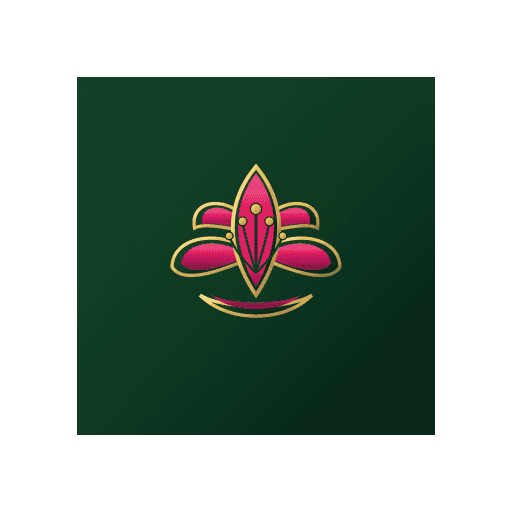
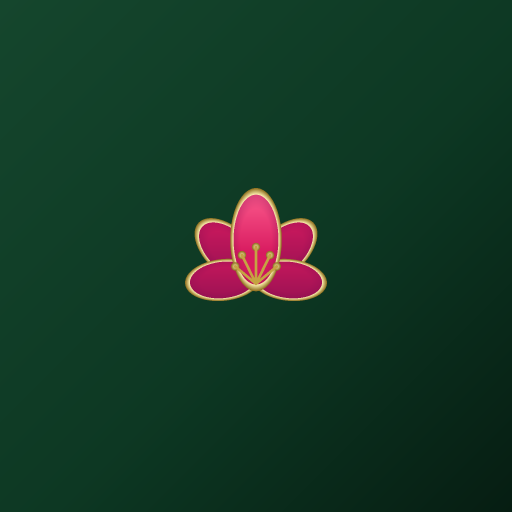
fix: icone do app no celular sem rebarba branca — verde de borda a borda
PROBLEMA: ao instalar o app na tela de inicio do celular, aparecia uma moldura
branca em volta do icone.

CAUSA (medida nos PNGs originais):
- maskable-icon-512x512.png: 77px de moldura branca solida (rgb 255,255,255)
- apple-touch-icon-180x180.png: 27px de moldura branca solida
- pwa-64/192/512.png: bordas TRANSPARENTES (chunk tRNS, palette com alpha=0)
O Android e o iOS aplicam a propria mascara arredondada por cima do icone; area
branca ou transparente vira "rebarba" branca ao redor da flor na tela de inicio.

CORRECAO:
- Novo gerador scripts/gerar-icones-pwa.cjs (Node puro, sem dependencia externa):
  desenha a flor da azaleia sobre gradiente verde da marca sangrado ate a borda e
  grava PNG colorType=2 (RGB puro, SEM canal alpha) — impossivel ter transparencia.
- Todos os 5 icones + favicon.ico regenerados. Cantos verificados: os quatro cantos
  de cada arquivo agora sao verde (#15462D -> #061D12), zero chunk tRNS.
- maskable com a flor na safe zone central (26% de margem verde), atendendo a
  especificacao maskable: recorte circular, quadrado ou squircle sempre cai no verde.
- icon-source.svg: fundo sangrado em -1/-1 ate 514x514, sem borda transparente.
- vite.config.ts: manifest background_color de #F8F9FA (branco) para #0D3823 (verde),
  eliminando o flash branco na splash screen de abertura do app instalado.
- Icones anteriores preservados em backups/icones-antigos/.

npx tsc --noEmit e npm run build limpos.

diff --git a/vite.config.ts b/vite.config.ts
@@ -21,7 +21,9 @@ export default defineConfig(() => {
           description:
             'PWA e Sistema de Gestão Inteligente de Encomendas do Condomínio Residencial Village Azaleia — Portaria, Totem, Morador e Síndico.',
           theme_color: '#0D3823',
-          background_color: '#F8F9FA',
+          // Verde da marca (era #F8F9FA): esta cor pinta a splash screen de abertura do
+          // app instalado. Em branco, dava um "flash" branco antes da tela carregar.
+          background_color: '#0D3823',
           display: 'standalone',
           orientation: 'portrait',
           start_url: '/',
